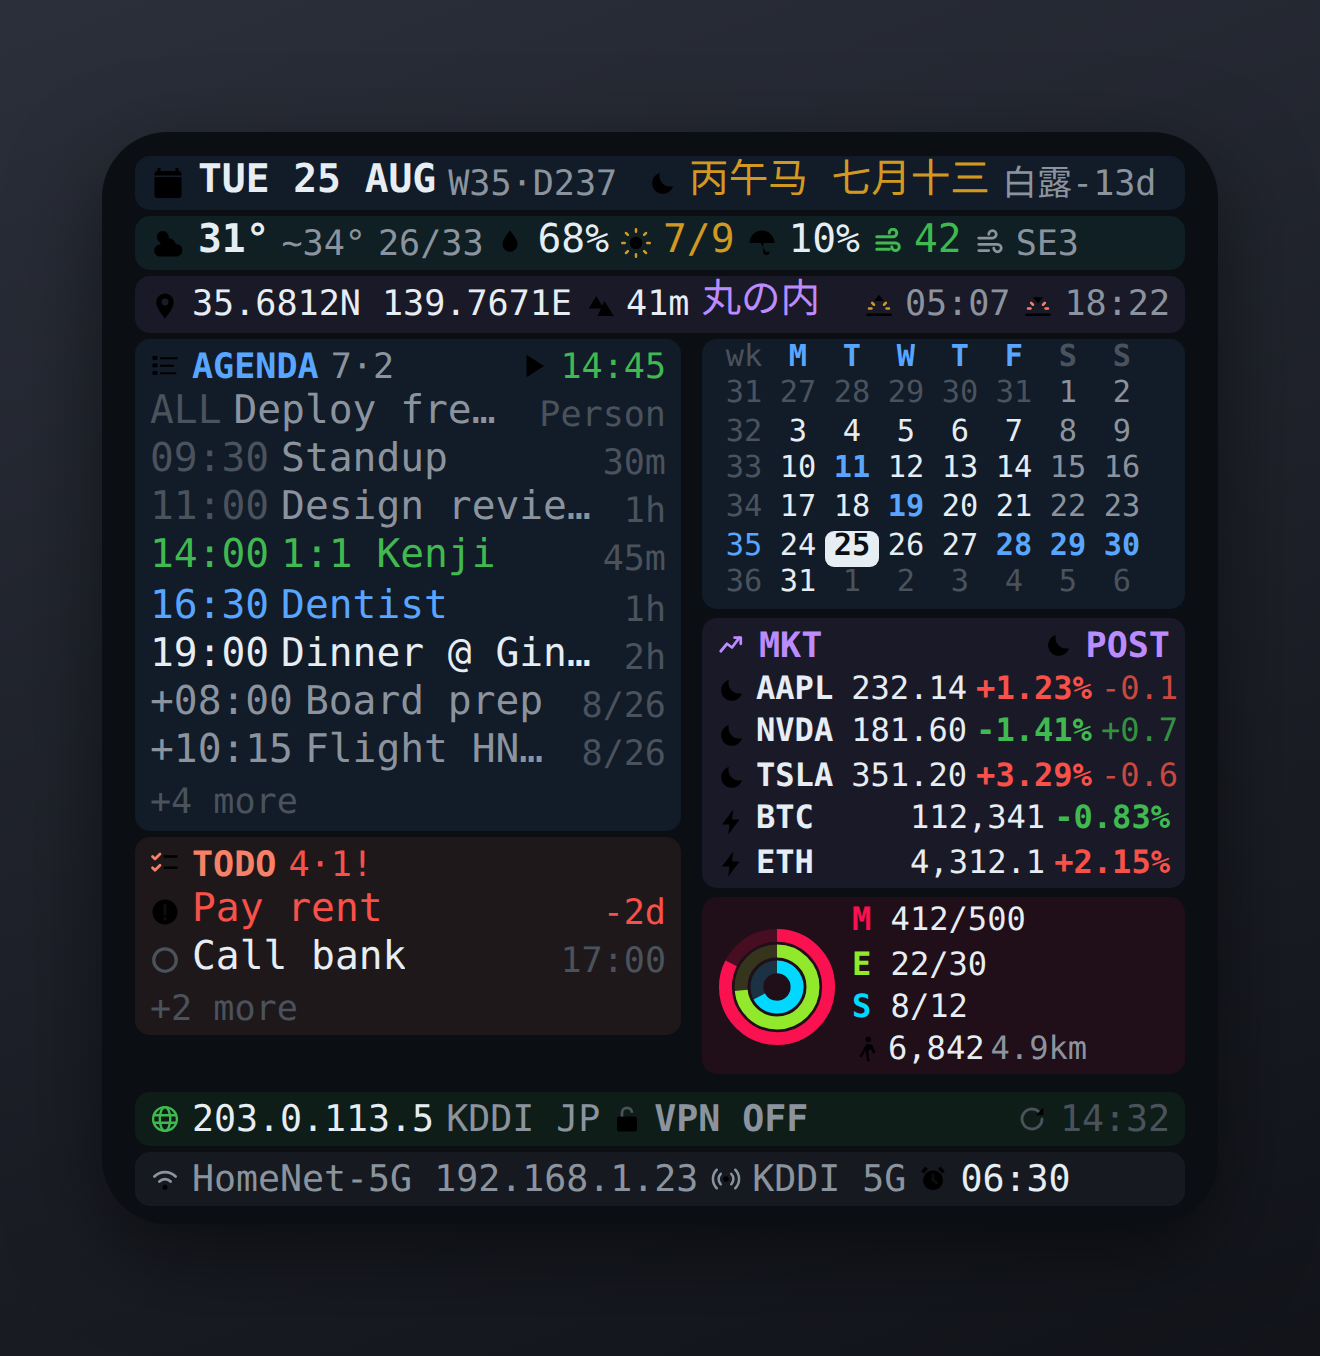
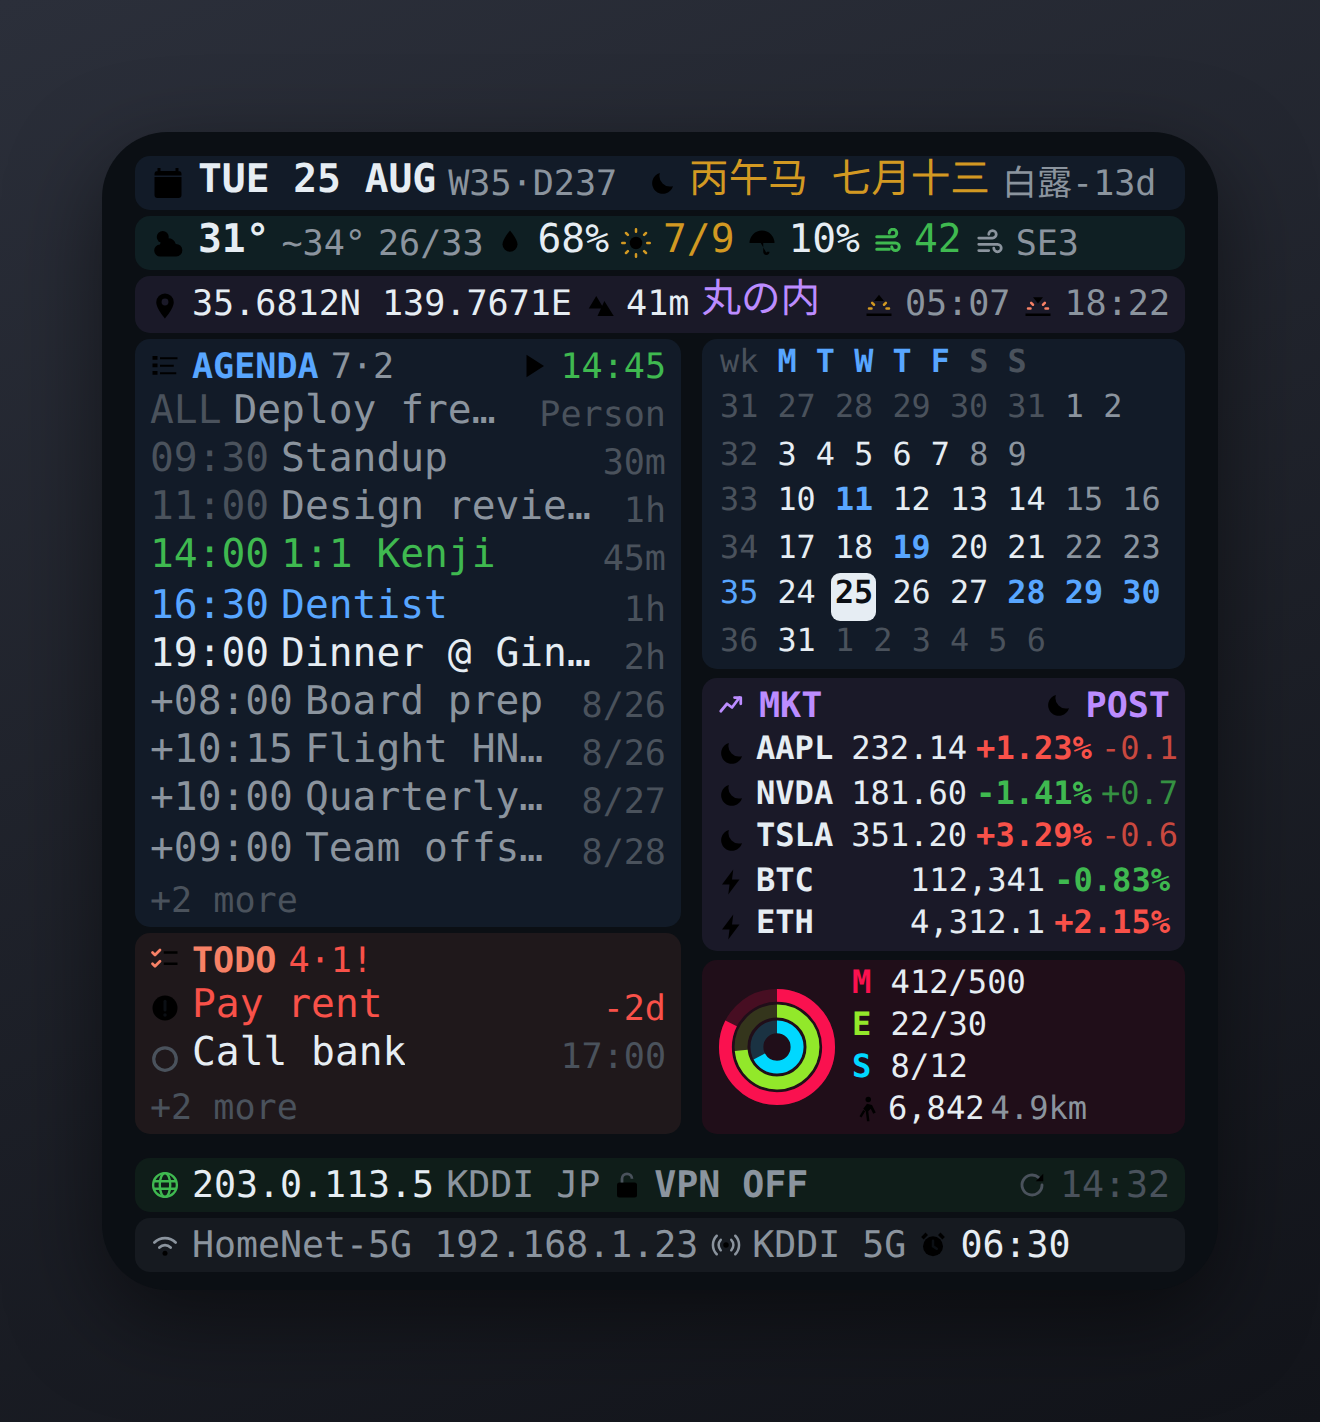
GeekBoard: fix the real cause of the crushed month grid, and re-measure the widget
The previous fix missed. Measuring the screenshot showed the calendar's
tinted box was a healthy 87.7pt tall (12.5pt per row) while the glyphs
inside were 1-4.7pt: the rows always had room, so height was never the
problem. The cause is that each cell was a fixed-width stack containing
spacer / text / spacer. Flexible spacers claim width ahead of text, and a
text carrying minimumScaleFactor 0.6 silently shrinks to almost nothing
rather than pushing back. Cells now set no width and hold no spacers -
dates are padded to two monospace characters so the columns line up on
their own, column spacing is distributed by the row, and the grid font is
capped by width as well as height. Grid text also floors at 0.9 scale, so
a layout mistake shows up as visible truncation instead of micro-text.

Sizing was measured wrong last time too, in the opposite direction: the
sample column sat 11px inside the left edge, inside the corner radius,
which clipped both ends. Sampling near the centre line gives x 89..1204,
y 253..1411 at 3x, i.e. 372x386 - not the 372x364 I committed. Ratios are
now 0.8651 / 1.0384, and the line-height factor is 1.27, matching the
16.67pt row pitch measured at font 13.2.

The left-column budget is also computed at render time now. Whether a
bridge exists decides if the footer is one row or two, and whether any
reminders exist decides if the TODO block occupies space at all; both are
only known after the data loads, and reserving for the worst case was
[…]

Changed region(s): [[0.0932, 0.0929, 0.9008, 0.8982], [0.4348, 0.6504, 0.497, 0.7434]]

diff --git a/GeekBoard/GeekBoard.js b/GeekBoard/GeekBoard.js
@@ -64,11 +64,12 @@ const CONFIG = {
 // DEVICE / SIZE
 // =====================================================================
 // 大号 Widget 的实际尺寸 Scriptable 读不到，只能从屏幕推。
-// 下面两个比例是在真机上量出来的：430x932 的屏，大号 Widget 实测 372x364 pt。
-//   372/430 = 0.865   364/372 = 0.978
-// 网上流传的旧尺寸表（如 430x932 → 364x382）在当前 iOS 上已经不准，宽了会裁字、高了会裁行，
-// 所以这里用比例推算而不是查表。要是你的机器对不上，量一下填 SIZE_OVERRIDE 即可。
-const W_RATIO = 0.865, H_RATIO = 0.978;
+// 下面两个比例是在真机截图上量出来的：430x932 的屏，Widget 深色圆角矩形占 x 89..1204、
+// y 253..1411（设备像素，3x），即 372 x 386 pt。
+//   372/430 = 0.8651    386/372 = 1.0384
+// 量的时候务必取靠近中线的那一列/那一行——贴着边缘量会落进圆角里，两头各少算一截，
+// 我第一次就是这么把高度量成 364 的。
+const W_RATIO = 0.8651, H_RATIO = 1.0384;
 function widgetSize() {
   const o = CONFIG.SIZE_OVERRIDE;
   if (o && o.w && o.h) return { w: o.w, h: o.h, src: "override" };
@@ -90,18 +91,18 @@ const LAY = (() => {
   const gap = 7;
   const rightW = Math.round(W * CONFIG.RIGHT_RATIO);
   const leftW = W - rightW - gap;
-  const lineH = font + 3;
+  // 行距实测：字号 13.2 时相邻两行间隔 16.67pt，即 1.263 倍。取 1.27 略微保守。
+  const lineH = font * 1.27;
   const blockV = BLOCK_PAD_V * 2;
   const stackGap = 2;
-  // 固定开销：外边距 + 顶部3个横条 + 底部2行 + 顶层堆叠间距(6处)
-  const chrome = PAD_TOP + PAD_BOT + (lineH + blockV) * 3 + (font + 1 + blockV) * 2 + stackGap * 6;
-  // 左栏自身开销：AGENDA / TODO 两个区块的内边距 + 它们之间的间距
-  const leftOverhead = blockV * 2 + stackGap;
-  // 少排一行作为安全余量：高度估算偏大时，撑爆的代价是底栏被裁掉（丢 IP/VPN），
-  // 而估小的代价只是最后一条未来日程不显示。两害相权取其轻。
-  const leftLines = Math.max(6, Math.floor((WSZ.h - chrome - leftOverhead) / lineH) - 1);
-  const bodyH = WSZ.h - chrome;          // 左右两栏共用的可用高度
-  return { W, font, gap, rightW, leftW, lineH, leftLines, bodyH };
+  const stripH = lineH + blockV;                 // 顶部三个横条各自的高度
+  const footH = (font - 1) * 1.27 + blockV;      // 底栏每行的高度
+  // 底栏行数、TODO 区块在不在，都要等数据回来才知道，所以 chrome 做成函数、渲染时再算，
+  // 免得像上一版那样按“永远两行底栏”预留，白白浪费一行多。
+  const bodyH = (footerRows) => WSZ.h - PAD_TOP - PAD_BOT - stripH * 3 - footH * footerRows - stackGap * (3 + footerRows);
+  const linesFor = (footerRows, hasTodo) =>
+    Math.max(6, Math.floor((bodyH(footerRows) - blockV * (hasTodo ? 2 : 1) - (hasTodo ? stackGap : 0)) / lineH));
+  return { W, font, gap, rightW, leftW, lineH, blockV, stackGap, bodyH, linesFor };
 })();
 
 // =====================================================================
@@ -721,10 +722,14 @@ async function build() {
     || (E.byDay || []).slice(1).flat().find(e => !e.isAllDay);
   const cur = todayAll.find(e => !e.isAllDay && e.startDate <= now && e.endDate > now);
 
-  // 行数分配：提醒事项为 0 时整个 TODO 区块不占位，全部让给日程
+  // 行数分配：提醒事项为 0 时整个 TODO 区块不占位；没有桥接时底栏只有一行。
+  // 这两件事都要等数据回来才知道，所以到这里才算可用行数。
   const remWanted = Math.min(remRows.length, CONFIG.MIN_REMINDER_LINES);
   const hasTodo = remRows.length > 0;
-  const evLines = Math.max(3, LAY.leftLines - 1 - (hasTodo ? 1 + remWanted : 0));
+  const footerRows = bridge ? 2 : 1;
+  const leftLines = LAY.linesFor(footerRows, hasTodo);
+  const bodyH = LAY.bodyH(footerRows);
+  const evLines = Math.max(3, leftLines - 1 - (hasTodo ? 1 + remWanted : 0));
 
   const agBlock = block(left, C.blue, LAY.leftW);
   const ah = agBlock.addStack(); ah.layoutHorizontally(); ah.centerAlignContent(); ah.spacing = 3;
@@ -769,7 +774,7 @@ async function build() {
 
   // ---- LEFT: TODO ----
   if (hasTodo) {
-    const remLines = Math.max(1, LAY.leftLines - 2 - shown - (hiddenEv > 0 ? 1 : 0));
+    const remLines = Math.max(1, leftLines - 2 - shown - (hiddenEv > 0 ? 1 : 0));
     const tdBlock = block(left, C.orange, LAY.leftW);
     const rh = tdBlock.addStack(); rh.layoutHorizontally(); rh.centerAlignContent(); rh.spacing = 3;
     const overdue = remRows.filter(r => r.dueDate && r.dueDate < now).length;
@@ -802,35 +807,45 @@ async function build() {
   const gsPre = E.gridStart || (() => { const f = new Date(now.getFullYear(), now.getMonth(), 1); f.setDate(1 - ((f.getDay() + (CONFIG.WEEK_STARTS_MONDAY ? 6 : 0)) % 7)); return f; })();
   const calRows = 1 + Math.ceil((Math.round((new Date(now.getFullYear(), now.getMonth() + 1, 0) - gsPre) / DAY) + 1) / 7);
   const quotesPre = [...((stocks && stocks.v) || []), ...((crypto && crypto.v) || [])].slice(0, CONFIG.QUOTE_ROWS);
+  const innerW = LAY.rightW - (CONFIG.SHOW_SECTION_TINT ? 10 : 0);
   const qRowH = (LAY.font - 2.5) * 1.32;        // 行情数据行
   const hdrRowH = (LAY.font - 1.5) * 1.32;       // 区块标题行（字号比数据行大一号）
   const actRows = (bridge && (bridge.move != null || bridge.steps != null)) ? 4 : 1;
   // 留 8pt 余量：这些行高是按字号估的，估得偏乐观就会把底栏挤出去，宁可月历字小一点
   const rightPad = (CONFIG.SHOW_SECTION_TINT ? BLOCK_PAD_V * 6 : 0) + 6 + 8;
   // 先按全部行情行数试算；月历字号已经压到下限还塞不下，就减行情行数（最少留 2 行）
+  // 月历每行 = 字号 × 1.27（实测行距倍率）+ 2（格子上下内边距各 1）
+  const calRowH = (f) => f * 1.27 + 2;
   let qShown = quotesPre.length, gridFont = 0;
   for (;;) {
-    const avail = LAY.bodyH - rightPad - hdrRowH - qShown * qRowH - actRows * qRowH;
-    gridFont = Math.min(LAY.font - 2, avail / calRows / 1.25);
+    const avail = bodyH - rightPad - hdrRowH - qShown * qRowH - actRows * qRowH;
+    gridFont = Math.min(LAY.font, (avail / calRows - 2) / 1.27);   // 高度有富余就让月历跟正文一样大
     if (gridFont >= 7.5 || qShown <= 2) break;
     qShown--;
   }
-  gridFont = Math.max(7.5, gridFont);
+  // 宽度也是硬约束：8 列 × 2 个等宽字符要塞进 innerW，否则又会被压
+  const gridFontMaxW = (innerW / 8 - 2) / (0.62 * 2);
+  gridFont = Math.max(7.5, Math.min(gridFont, gridFontMaxW));
   const FG = { grid: Font.regularMonospacedSystemFont(gridFont), gridBold: Font.boldMonospacedSystemFont(gridFont) };
 
   const calBlock = block(right, C.blue, LAY.rightW);
-  const innerW = LAY.rightW - (CONFIG.SHOW_SECTION_TINT ? 10 : 0);
-  const cellW = Math.floor(innerW / 8);
-  // 只固定宽度、高度留 0（自动）。给 stack 设死高度会让 Scriptable 把文字硬压进去，
-  // 连 minimumScaleFactor 的下限都不认——月历的字曾因此被压到 1pt 左右，几乎看不见。
+  // 月历格子：不设固定宽度、格子里也不放 spacer。
+  // 之前的写法是「固定宽度 + 两个弹性 spacer 夹一段文字」，弹性 spacer 会优先抢宽度，
+  // 把带 minimumScaleFactor 的文字一路压到 1~2pt——底色框高度正常，字却几乎看不见。
+  // 现在靠等宽字体本身对齐：日期一律补成 2 个字符，列间距由整行统一分配。
+  const pad2c = (v) => { const t = String(v); return t.length >= 2 ? t : " " + t; };
+  const cellPadX = 1;
+  const cellW = gridFont * 0.62 * 2 + cellPadX * 2;
+  const gridGap = Math.max(0, (innerW - cellW * 8) / 7);
   const cell = (row, s, font, color, bg) => {
-    const c = row.addStack(); c.size = new Size(cellW, 0); c.centerAlignContent();
+    const c = row.addStack();
+    c.setPadding(1, cellPadX, 1, cellPadX);
     if (bg) { c.backgroundColor = bg; c.cornerRadius = 3; }
-    c.addSpacer();
-    const t = c.addText(s); t.font = font; t.textColor = color; t.lineLimit = 1; t.minimumScaleFactor = 0.6;
-    c.addSpacer();
+    const t = c.addText(pad2c(s));
+    t.font = font; t.textColor = color; t.lineLimit = 1;
+    t.minimumScaleFactor = 0.9;   // 下限提到 0.9：布局出问题就该看得出来，而不是缩成微字
   };
-  const hdr = calBlock.addStack(); hdr.layoutHorizontally();
+  const hdr = calBlock.addStack(); hdr.layoutHorizontally(); hdr.spacing = gridGap;
   const dn = CONFIG.WEEK_STARTS_MONDAY ? ["M", "T", "W", "T", "F", "S", "S"] : ["S", "M", "T", "W", "T", "F", "S"];
   cell(hdr, "wk", FG.grid, C.faint);
   dn.forEach((d, i) => cell(hdr, d, FG.gridBold, ((CONFIG.WEEK_STARTS_MONDAY && i >= 5) || (!CONFIG.WEEK_STARTS_MONDAY && (i === 0 || i === 6))) ? C.faint : C.blue));
@@ -838,7 +853,7 @@ async function build() {
   const lastOfMonth = new Date(now.getFullYear(), now.getMonth() + 1, 0);
   const rowsNeeded = Math.ceil((Math.round((lastOfMonth - gs) / DAY) + 1) / 7);
   for (let r = 0; r < rowsNeeded; r++) {
-    const row = calBlock.addStack(); row.layoutHorizontally();
+    const row = calBlock.addStack(); row.layoutHorizontally(); row.spacing = gridGap;
     const wkDate = new Date(gs.getTime() + r * 7 * DAY);
     const isCurWeek = isoWeek(wkDate) === isoWeek(now) && Math.abs(wkDate - now) < 8 * DAY;
     cell(row, String(isoWeek(wkDate)), FG.grid, isCurWeek ? C.blue : C.faint);

diff --git a/GeekBoard/tools/preview.html b/GeekBoard/tools/preview.html
@@ -3,19 +3,20 @@
 <!--
   Static mock-up of the widget, used only to render preview.png.
   Geometry mirrors what GeekBoard.js computes for a 430x932 screen
-  (iPhone 15/16 Pro Max, 15/16 Plus): widget 372x364 - measured on a real
-  device, not taken from the old published size tables - font 13.2,
-  left column 182, right column 161, calendar cell 18 at an
-  adaptive 10.1pt (the script shrinks the month grid to whatever space the
-  quote and activity blocks leave).
+  (iPhone 15/16 Pro Max, 15/16 Plus): widget 372x386, measured off a real
+  screenshot (dark rounded rect spans x 89..1204, y 253..1411 at 3x).
+  Font 13.2, left column 182, right column 161. The month grid font is
+  adaptive - 10.6pt here, with a bridge present - and its columns line up
+  because every date is padded to two monospace characters, not because
+  the cells have a fixed width.
   SF Symbols are approximated with inline SVG here; the widget uses the real ones.
   Shown in POST (after-hours) market state to exercise the session styling.
 -->
 <style>
   html,body{margin:0}
-  body{display:flex;align-items:center;justify-content:center;width:440px;height:452px;
+  body{display:flex;align-items:center;justify-content:center;width:440px;height:474px;
        background:linear-gradient(160deg,#2b2f3a,#12141a)}
-  .w{width:372px;height:364px;box-sizing:border-box;border-radius:22px;background:#0b0f14;
+  .w{width:372px;height:386px;box-sizing:border-box;border-radius:22px;background:#0b0f14;
      padding:8px 11px 6px 11px;font-family:"DejaVu Sans Mono","Noto Sans CJK JP",monospace;
      font-size:13.2px;line-height:16.2px;color:#e6edf3;display:flex;flex-direction:column;gap:2px;
      overflow:hidden;box-shadow:0 10px 30px rgba(0,0,0,.5)}
@@ -36,8 +37,8 @@
   .right{width:161px;display:flex;flex-direction:column;gap:3px}
   .ev{display:flex;gap:4px;align-items:center;white-space:nowrap}
   .ev .t{overflow:hidden;text-overflow:ellipsis;min-width:0}
-  .grid{display:flex}
-  .grid div{width:18px;height:12.6px;font-size:10.1px;text-align:center;line-height:12.6px}
+  .grid{display:flex;gap:4.4px}
+  .grid div{font-size:10.6px;line-height:13.5px;text-align:center;padding:1px}
   .today{background:#e6edf3;color:#0b0f14;border-radius:3px;font-weight:bold}
   .ic{width:12px;height:12px;flex:none;vertical-align:-1px}
   .ic.s{width:10px;height:10px}
@@ -113,7 +114,9 @@
         <div class="ev"><span>19:00</span><span class="t">Dinner @ Ginza</span><span class="sp"></span><span class="sm faint">2h</span></div>
         <div class="ev"><span class="dim">+08:00</span><span class="t dim">Board prep</span><span class="sp"></span><span class="sm faint">8/26</span></div>
         <div class="ev"><span class="dim">+10:15</span><span class="t dim">Flight HND-SFO</span><span class="sp"></span><span class="sm faint">8/26</span></div>
-        <div class="ev"><span class="sm faint">+4 more</span></div>
+        <div class="ev"><span class="dim">+10:00</span><span class="t dim">Quarterly review</span><span class="sp"></span><span class="sm faint">8/27</span></div>
+        <div class="ev"><span class="dim">+09:00</span><span class="t dim">Team offsite</span><span class="sp"></span><span class="sm faint">8/28</span></div>
+        <div class="ev"><span class="sm faint">+2 more</span></div>
       </div>
       <div class="blk t-orange">
         <div class="ev"><svg class="ic s orange"><use href="#checklist"/></svg><span class="sm b orange">TODO</span><span class="sm red">4·1!</span><span class="sp"></span></div>
